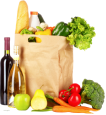
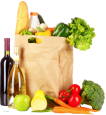
Add different resolution images

diff --git a/gogrocy/lib/ui/views/cart/cart.dart b/gogrocy/lib/ui/views/cart/cart.dart
@@ -139,7 +139,7 @@ class CartHeader extends StatelessWidget {
               height: 137.67 * constants.scaleRatio,
               width: 181.72 * constants.scaleRatio,
               image: AssetImage(
-                'assets/images/shopping_cart_2x.png',
+                'assets/images/shopping_cart.png',
               ),
             )),
         Column(
